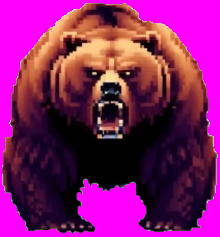
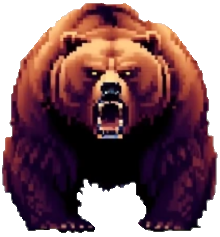
fixed sprite monsters to use alpha channel for png files so they are better drawn and dont have pink edges on rescaling

Changed region(s): [[0.0, 0.0, 1.0, 1.0]]

diff --git a/Raycaster-FPS-Game/raycasting.js b/Raycaster-FPS-Game/raycasting.js
@@ -627,7 +627,7 @@ function getTextureData(texture) {
 function parseImageData(imageData) {
     let colorArray = [];
     for (let i = 0; i < imageData.length; i += 4) {
-        colorArray.push(new Color(imageData[i], imageData[i + 1], imageData[i + 2], 255));
+        colorArray.push(new Color(imageData[i], imageData[i + 1], imageData[i + 2], imageData[i + 3]));
     }
     return colorArray;
 }
@@ -835,8 +835,8 @@ function drawSprite(xProjection, spriteWidth, spriteHeight, sprite) {
             const texY = Math.floor(y * texStepY);
             const color = sprite.data[texX + texY * sprite.width];
 
-            // Only draw visible pixels
-            if (color && (color.r !== 255 || color.g !== 0 || color.b !== 255)) {
+            // Skip fully transparent pixels (alpha = 0) or magenta pixels
+            if (color && color.a > 0 && !(color.r === 255 && color.g === 0 && color.b === 255)) {
                 drawPixel(xPos, yProjection + y, color);
             }
         }
